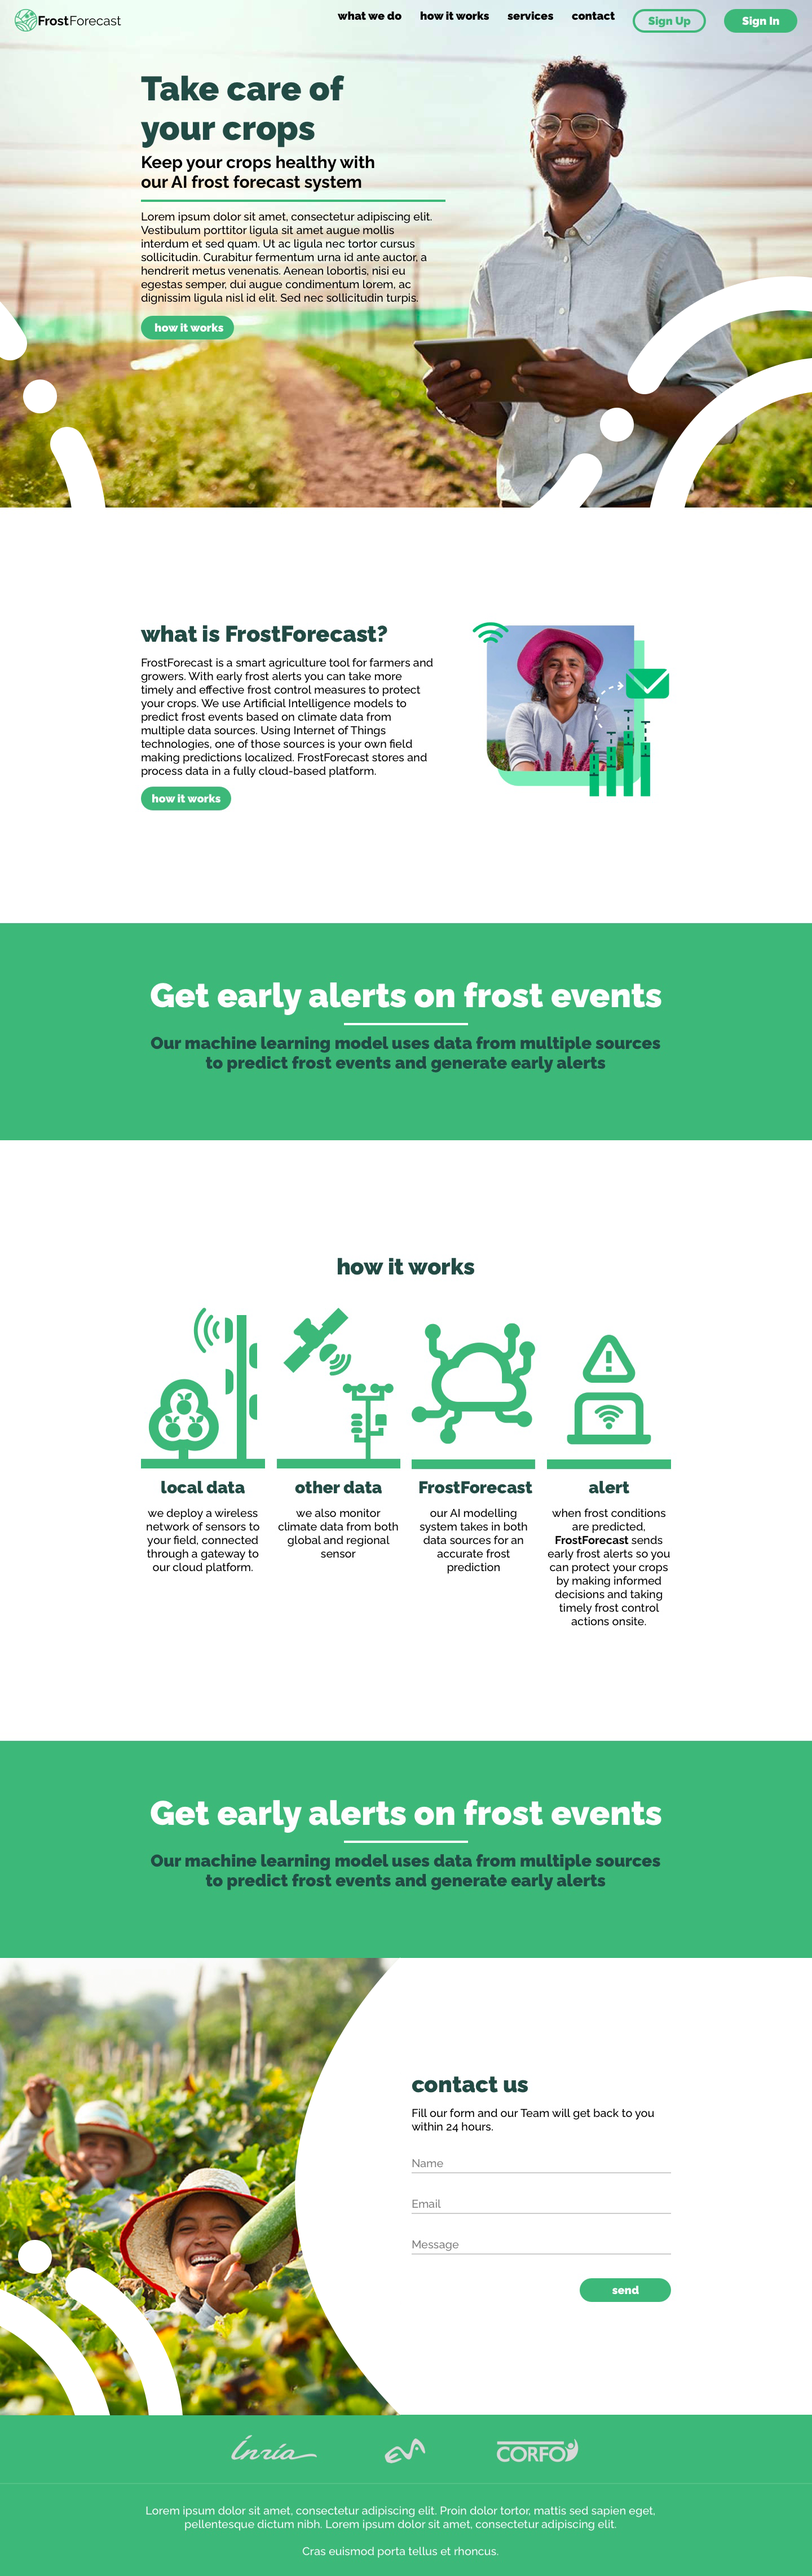
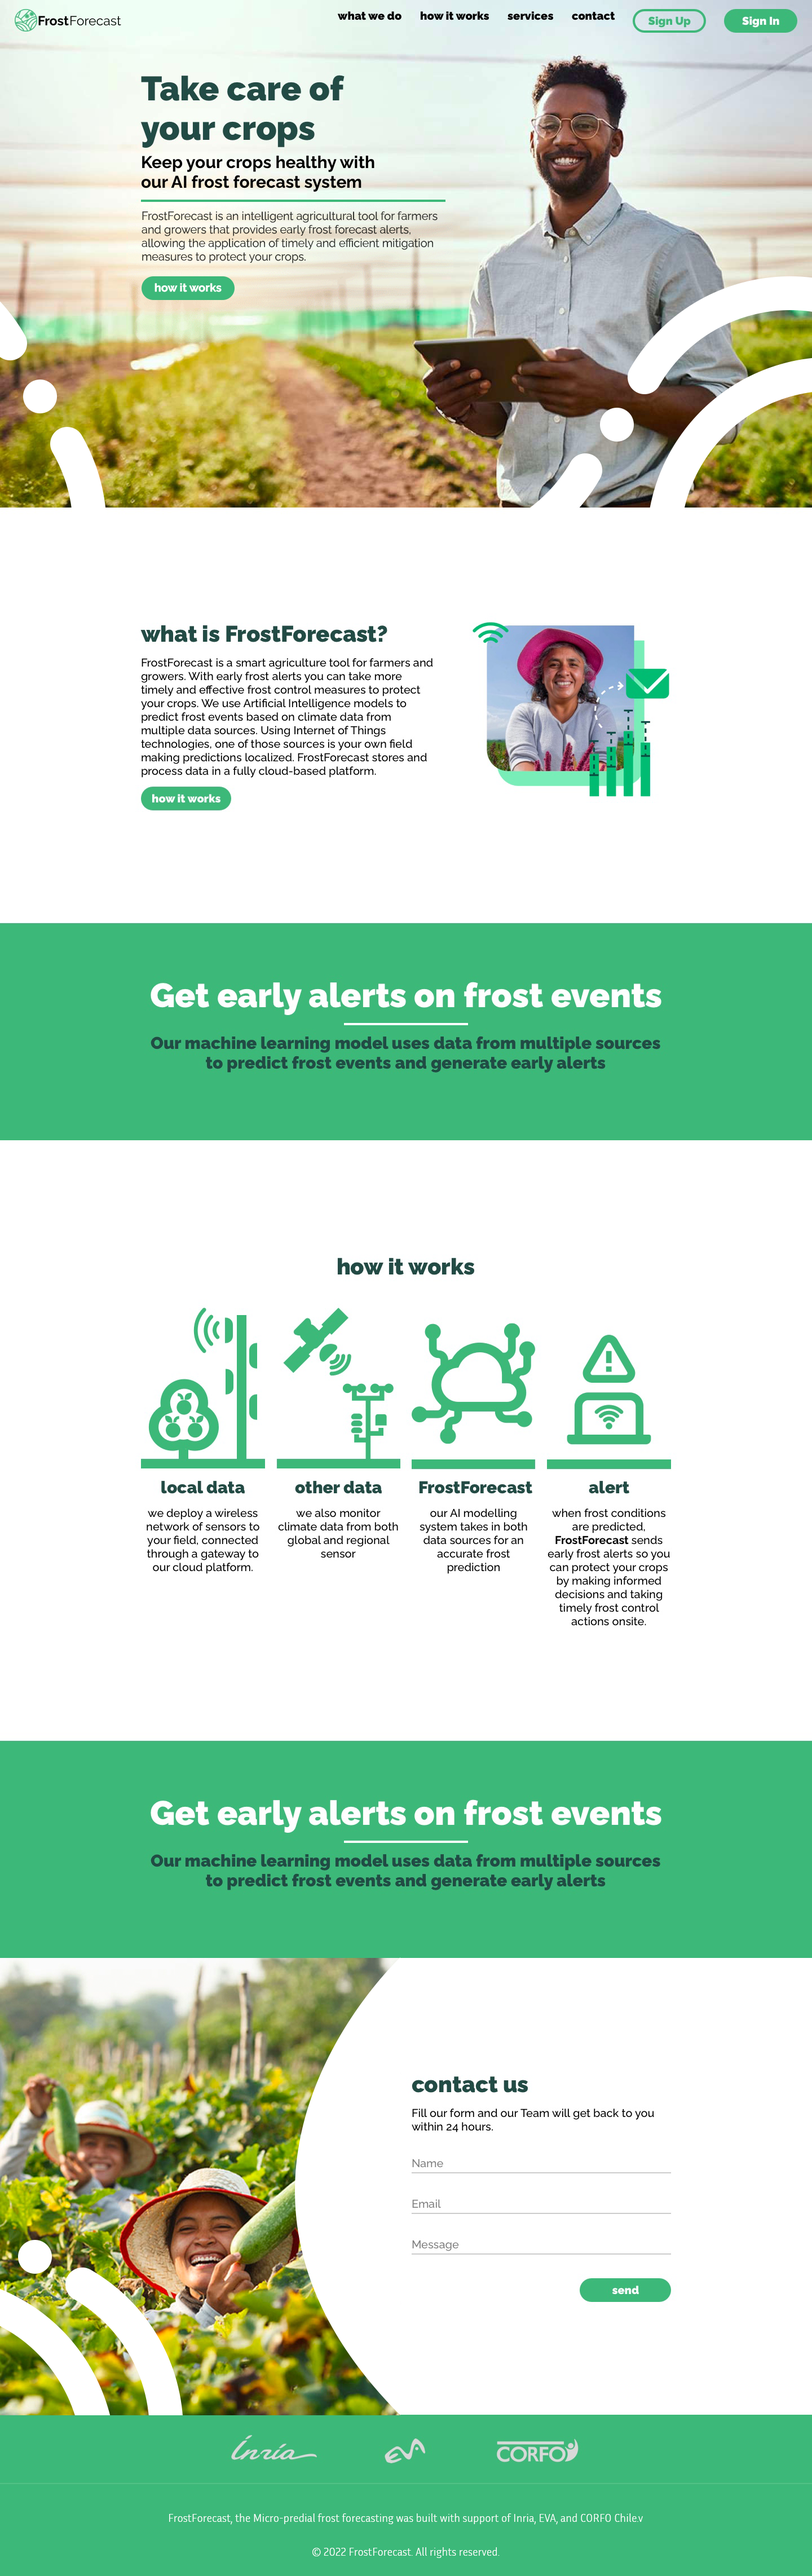
Upd8 FrostForecast img and added a chevron to home

Changed region(s): [[0.1562, 0.0622, 0.5312, 0.1554], [0.2188, 0.9637, 0.75, 0.9947]]

diff --git a/index.html b/index.html
@@ -2344,6 +2344,11 @@
 						</g>
 					</g>
 					</svg>
+			</div>
+			<div class="arrow">
+			  <svg xmlns="http://www.w3.org/2000/svg"  viewBox="0 0 24 24" fill="none">
+				<path class="mainColorFill" fill-rule="evenodd" clip-rule="evenodd" d="M4.29289 8.29289C4.68342 7.90237 5.31658 7.90237 5.70711 8.29289L12 14.5858L18.2929 8.29289C18.6834 7.90237 19.3166 7.90237 19.7071 8.29289C20.0976 8.68342 20.0976 9.31658 19.7071 9.70711L12.7071 16.7071C12.3166 17.0976 11.6834 17.0976 11.2929 16.7071L4.29289 9.70711C3.90237 9.31658 3.90237 8.68342 4.29289 8.29289Z" fill="#000000"/>
+			  </svg>
 			</div>			
 		</section>
 
@@ -2695,7 +2700,7 @@
 							Managing the cognitive load of observers was a significant focus, considering the Observatory comprises more than 65 systems and subsystems, with over 50k telemetries being published every second. 
 						</p>
 					</div>
-					<div class="innerImage"><img src="assets/img/logo01.png" /></div>
+					<div class="innerImage"><img src="assets/illus/CartaHK.jpg" /></div>
 					<div class="innerImageText">Users had to be able to Monitor, Operate, and Study through LOVE</div>
 					<div class="innerTitle"><h2>The Design Process</h2></div>
 					<div class="innerText">
@@ -2776,146 +2781,11 @@
 			</div>
 		 </div>
 
-		 <!--//////////////////////////////////////-->
+		<!--//////////////////////////////////////-->
 		<!--// I L L U S T R A T I O N - INNER  //-->
 		<!--/////////////////////////////////////-->
 
-		<div id="illustration" class="overlayWork">
-			<div class="popup">
-			  <a class="close" href="#">&times;</a>
-			  <div class="insideWork">
-				<div class="workTitleH1">ILLUSTRATIONS</div>
-				<div class="innerSection">
-					<div class="innerText">
-						<p>
-							I'm also an avid illustrator, I like sketching and drawing stuff, which has even landed me some jobs.
-						</p>
-					</div>
-					<div class="innerImage"><img src="assets/dg/hk-charaselect.png"/></div>
-					<div class="innerTitle"><h2>Logo Designs</h2></div>
-					<div class="innerText">
-						<p>
-							One of the main Graphic Design skills is Logo 
-						</p>
-						<p>
-							Managing the cognitive load of observers was a significant focus, considering the Observatory comprises more than 65 systems and subsystems, with over 50k telemetries being published every second. 
-						</p>
-					</div>
-					<div class="innerImage"><img src="assets/img/logo01.png" /></div>
-					<div class="innerImageText">Users had to be able to Monitor, Operate, and Study through LOVE</div>
-					<div class="innerTitle"><h2>The Design Process</h2></div>
-					<div class="innerText">
-						<p>
-							One of the main challenges was developing LOVE simultaneously with the construction of the Observatory, leading to a lack of clarity regarding requirements and a constantly evolving context. This was exacerbated by the fact that the Observatory involved continuous improvements in designing, building, and implementing different instruments. To mitigate this, the design process for the development of the new LOVE component involved a systematic approach comprising four key phases.
-						</p>
-						<p>
-							<b>Phase 1: Research & Documentation</b><br>
-							In the initial phase, the team conducted extensive research and documented information related to the device that the new component would monitor. This involved gathering data on the device's usage and reviewing design papers. Once enough information was collected to grasp the basics, interviews were conducted with experts responsible for designing and building these devices. This aimed to gain a profound understanding of the device's importance, the type of data and information deemed crucial by experts, and insights from operators and observers regarding what they considered essential to visualize. Assimilating these insights formed a foundational understanding of the device's functionality and user expectations.						</p>
-						<p>
-							<b>Phase 2: Information Mapping and Collaborative Sketching</b><br>
-							Building upon the insights gained in the research phase, the focus shifted to creating visual representations that mapped the flow of information and user journeys. This phase also aimed to illustrate the intricate relationships between the various elements of the complex devices. Once the information architecture was untangled, and the main objectives of the component were identified, the team engaged in collaborative sketching sessions to produce wireframes. This collaborative process fostered creativity and collective input, refining ideas and ensuring a holistic understanding of the component.
-						</p>
-					</div>
-					<div class="innerImage"><img src="assets/img/logo_sketch01.png" /></div>
-					<div class="innerImageText">Diagram of the 4 phase design process</div>
-					<div class="innerText">
-						<p>
-							<b>Phase 3: Mockups and Design Validation</b><br>
-							Detailed mockups based on the wireframes and diagrams from the previous phase were created. This step involved fine-tuning design elements through close collaboration with users, experts, and developers. Design validation was a key aspect, ensuring alignment with end-user expectations and technical feasibility. Iterative feedback loops during this phase were crucial for refining the design and addressing potential challenges.						</p>
-						<p>
-							<b>Phase 4: Implementation Preparation</b><br>
-							With the validated design in hand, the final phase focused on preparing all elements for seamless implementation by the development team. This included creating a comprehensive set of design specifications, documentation, and assets. Clear communication and collaboration with the development team were paramount to ensure a smooth transition from design to implementation.						</p>
-						<p>
-							By diligently progressing through these four phases, our team successfully navigated the design process, combining research, collaboration, and validation to deliver a well-crafted LOVE component ready for implementation.
-						</p>
-					</div>
-					<div class="innerImage"><img src="assets/dg/reporte-inria.png" /></div>
-					<div class="innerImageText">The different steps for the M2 component</div>
-					<div class="innerTitle"><h2>The Implementation Process</h2></div>
-					<div class="innerText">
-						<p>
-							We adopted an agile development methodology, leveraging the implementation of an MVP that was strategically released into a dedicated test area. The continuous integration process, orchestrated through GitHub and Jenkins, allowed users to validate the component iteratively. This approach ensured a dynamic and responsive development cycle, fostering adaptability and swift adjustments based on user feedback.	
-						</p>
-						<P>
-							However, even with a successful final release, the dynamic nature of the project, the observatory being still in the construction phase, occasionally led to changes in scope during the verification process. While this is a common aspect of evolving projects, it did necessitate additional work. These challenges prompted us to address these pitfalls of evolving requirements and refine the design and implementation system for optimal performance.
-						</P>
-					</div>
-					<div class="innerImage"><img src="assets/img/love_06.JPG" /></div>
-					<div class="innerImageText">Visits to the Observatory were a MUST</div>
-					<div class="innerTitle"><h2>Testing</h2></div>
-					<div class="innerText">
-						<p>
-							Rigorous testing procedures were implemented to validate the functionality and performance of the GUI. One noteworthy aspect of our testing strategy was the recreation of the proposed control room and the creation of a small robotic telescope—a model Main Telescope—to simulate real-world operations and thoroughly assess various features while the real thing was being built.
-						</p>
-						<p>
-							To replicate the conditions of the actual Main Telescope, we meticulously designed and constructed a scaled-down robotic version. This model emulated basic aspects of the Main Telescope's functionalities, allowing us to simulate commands, data transfers, and responses within a controlled environment.
-						</p>
-						<p>
-							Testing was an iterative process, with each phase informing subsequent refinements to the GUI and the testing environment. Continuous feedback loops were established to address any issues identified during testing promptly. This approach allowed us to fine-tune LOVE to meet the dynamic demands of observatory operations effectively.
-						</p>
-					</div>
-					<div class="innerImage"><video controls><source src="assets/vids/love_robot.mp4" type="video/mp4"></video></div>
-					<div class="innerImageText">Our model Simonyi Telescope and LOVE on our Control Room Replica at CCLM</div>
-					<div class="innerTitle"><h2>UX for Astronomy</h2></div>
-					<div class="innerText">
-						<p>
-							LOVE stands as a pivotal graphical user interface developed to meet the unique requirements of Observers and Experts at the Vera C. Rubin Observatory. This GUI not only facilitates remote operation of the Main and Auxiliary telescopes but also serves as a comprehensive visualization platform for the copious amounts of data processed by the Observatory.
-						</p>
-						<p>
-							Being an integral part of the Vera C. Rubin Observatory, LOVE plays a fundamental role in the successful operation of this massive telescope. The challenge of designing components amid the construction phase required a systematic and adaptive approach, a challenge embraced with enthusiasm.
-						</p>
-						<p>
-							The Observatory's complexity, with continuous improvements and evolving instruments, necessitated a robust design process. The four-phase approach proved instrumental in navigating the uncertainties and dynamic nature of the project. The continuous integration process, supported by GitHub and Jenkins, allowed for iterative user validation and adjustments based on real-time feedback.
-						</p>
-						<p>
-							While the dynamic nature of the Observatory's construction occasionally led to changes in scope during verification, these challenges were met with a proactive approach. Adapting to evolving requirements, refining designs, and optimizing the implementation system became essential for maintaining optimal performance.
-						</p>
-						<p>
-							I am profoundly grateful to have had the opportunity to contribute to something as groundbreaking as LOVE for the Vera C. Rubin Observatory. Working on this project has been a source of joy and fulfillment, and I am privileged to have collaborated with a team of dedicated individuals in the pursuit of advancing scientific exploration. As the Observatory continues to evolve, so too does LOVE, a testament to the collaborative spirit and adaptability of our team in the face of dynamic challenges.
-						</p>
-					</div>
-					<div class="innerImage"><img src="assets/img/mia_rubin.JPG" /></div>
-					<div class="innerImageText">Let trans-made be synonymous with high-quality</div>
 
-				</div>
-			  <div >
-			</div>
-		 </div>
-
-		<!--///////////////-->
-		<!--// F R O S T //-->
-		<!--///////////////-->
-
-		<div id="frost" class="overlay">
-			<div class="popup">
-			  <a class="close" href="#">&times;</a>
-			  <div class="insideWork">
-				<div class="workTitleH1">LOVE</div>
-				<div class="workTitleH2">Observatory Operations GUI</div>
-				<div class="workTextP">
-					The LSST Operators Visualization Environment (LOVE) is one of the most fundamental pieces for the succesfull operation of the Vera C. Rubin observatory. This giant telescope has more than 65 systems and subsystems, that need to be monitored at all times by Science Experts and Operators, and the fact that that most of the stuff that had to be design was still under construction was a challenge to say the least. I'm increadibly proud and happy to have been part of such an endeavour of science and technology.
-				</div>
-			  <div >
-			</div>
-		 </div>
-
-		<!--///////////////-->
-		<!--// M O T O R //-->
-		<!--///////////////-->
-
-		<div id="motor" class="overlay">
-			<div class="popup">
-			  <a class="close" href="#">&times;</a>
-			  <div class="insideWork">
-				<div class="workTitleH1">LOVE</div>
-				<div class="workTitleH2">Observatory Operations GUI</div>
-				<div class="workTextP">
-					The LSST Operators Visualization Environment (LOVE) is one of the most fundamental pieces for the succesfull operation of the Vera C. Rubin observatory. This giant telescope has more than 65 systems and subsystems, that need to be monitored at all times by Science Experts and Operators, and the fact that that most of the stuff that had to be design was still under construction was a challenge to say the least. I'm increadibly proud and happy to have been part of such an endeavour of science and technology.
-				</div>
-			  <div >
-			</div>
-		 </div>
-		 
 	</body>
 	<script>
 			

diff --git a/css/main.css b/css/main.css
@@ -435,6 +435,52 @@ padding: 8em 0;
   font-weight: 700;
 }
 
+/* SHAPES ANIMATIONS */
+
+.arrow{
+ width: 5em;
+ margin: auto;
+ animation-name: floating;
+    animation-duration: 5s;
+    animation-iteration-count: infinite;
+    animation-timing-function: ease-in-out;
+    position: relative;
+    top: 4em;
+}
+.arrow svg{
+ width: 100%;
+}
+.shapes {  
+    position: absolute;
+    animation-name: floating;
+    animation-duration: 3s;
+    animation-iteration-count: infinite;
+    animation-timing-function: ease-in-out;
+    margin-left: 30px;
+    margin-top: 5px;
+}
+
+.shape{
+  animation-name: rotate;
+  animation-duration: 10s;
+  animation-iteration-count: infinite;
+  width: 30px;
+  height: 30px;
+  background-color: var(--mainColor);
+}
+
+@keyframes floating {
+    from { transform: translate(0,  0px); }
+    40%  { transform: translate(0, 2em); }
+    to   { transform: translate(0, -0px); }    
+}
+
+@keyframes rotate {
+    from { transform: rotate(0); }
+    50%   { transform: rotate(360deg);}    
+}
+
+
 /* MOBILE RESPONSIVE RULES */
 @media (max-width: 768px) {
   /* General font scaling */
